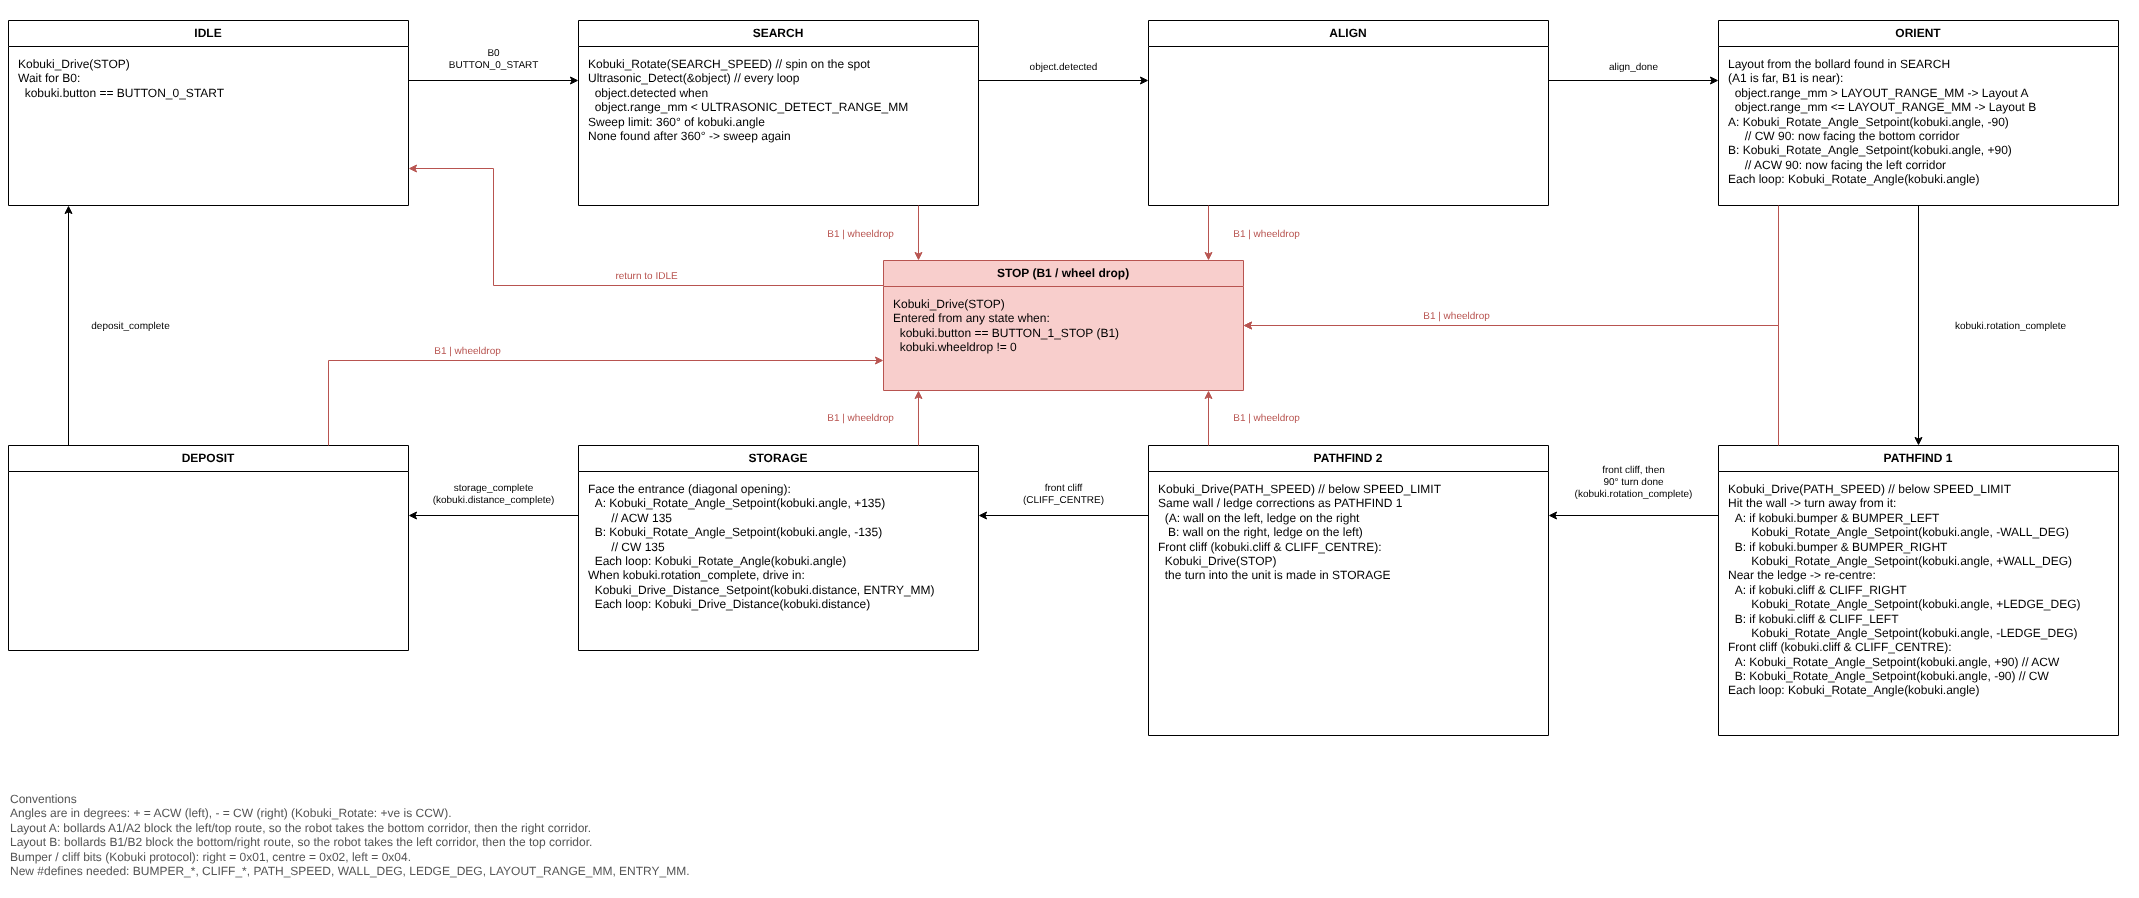
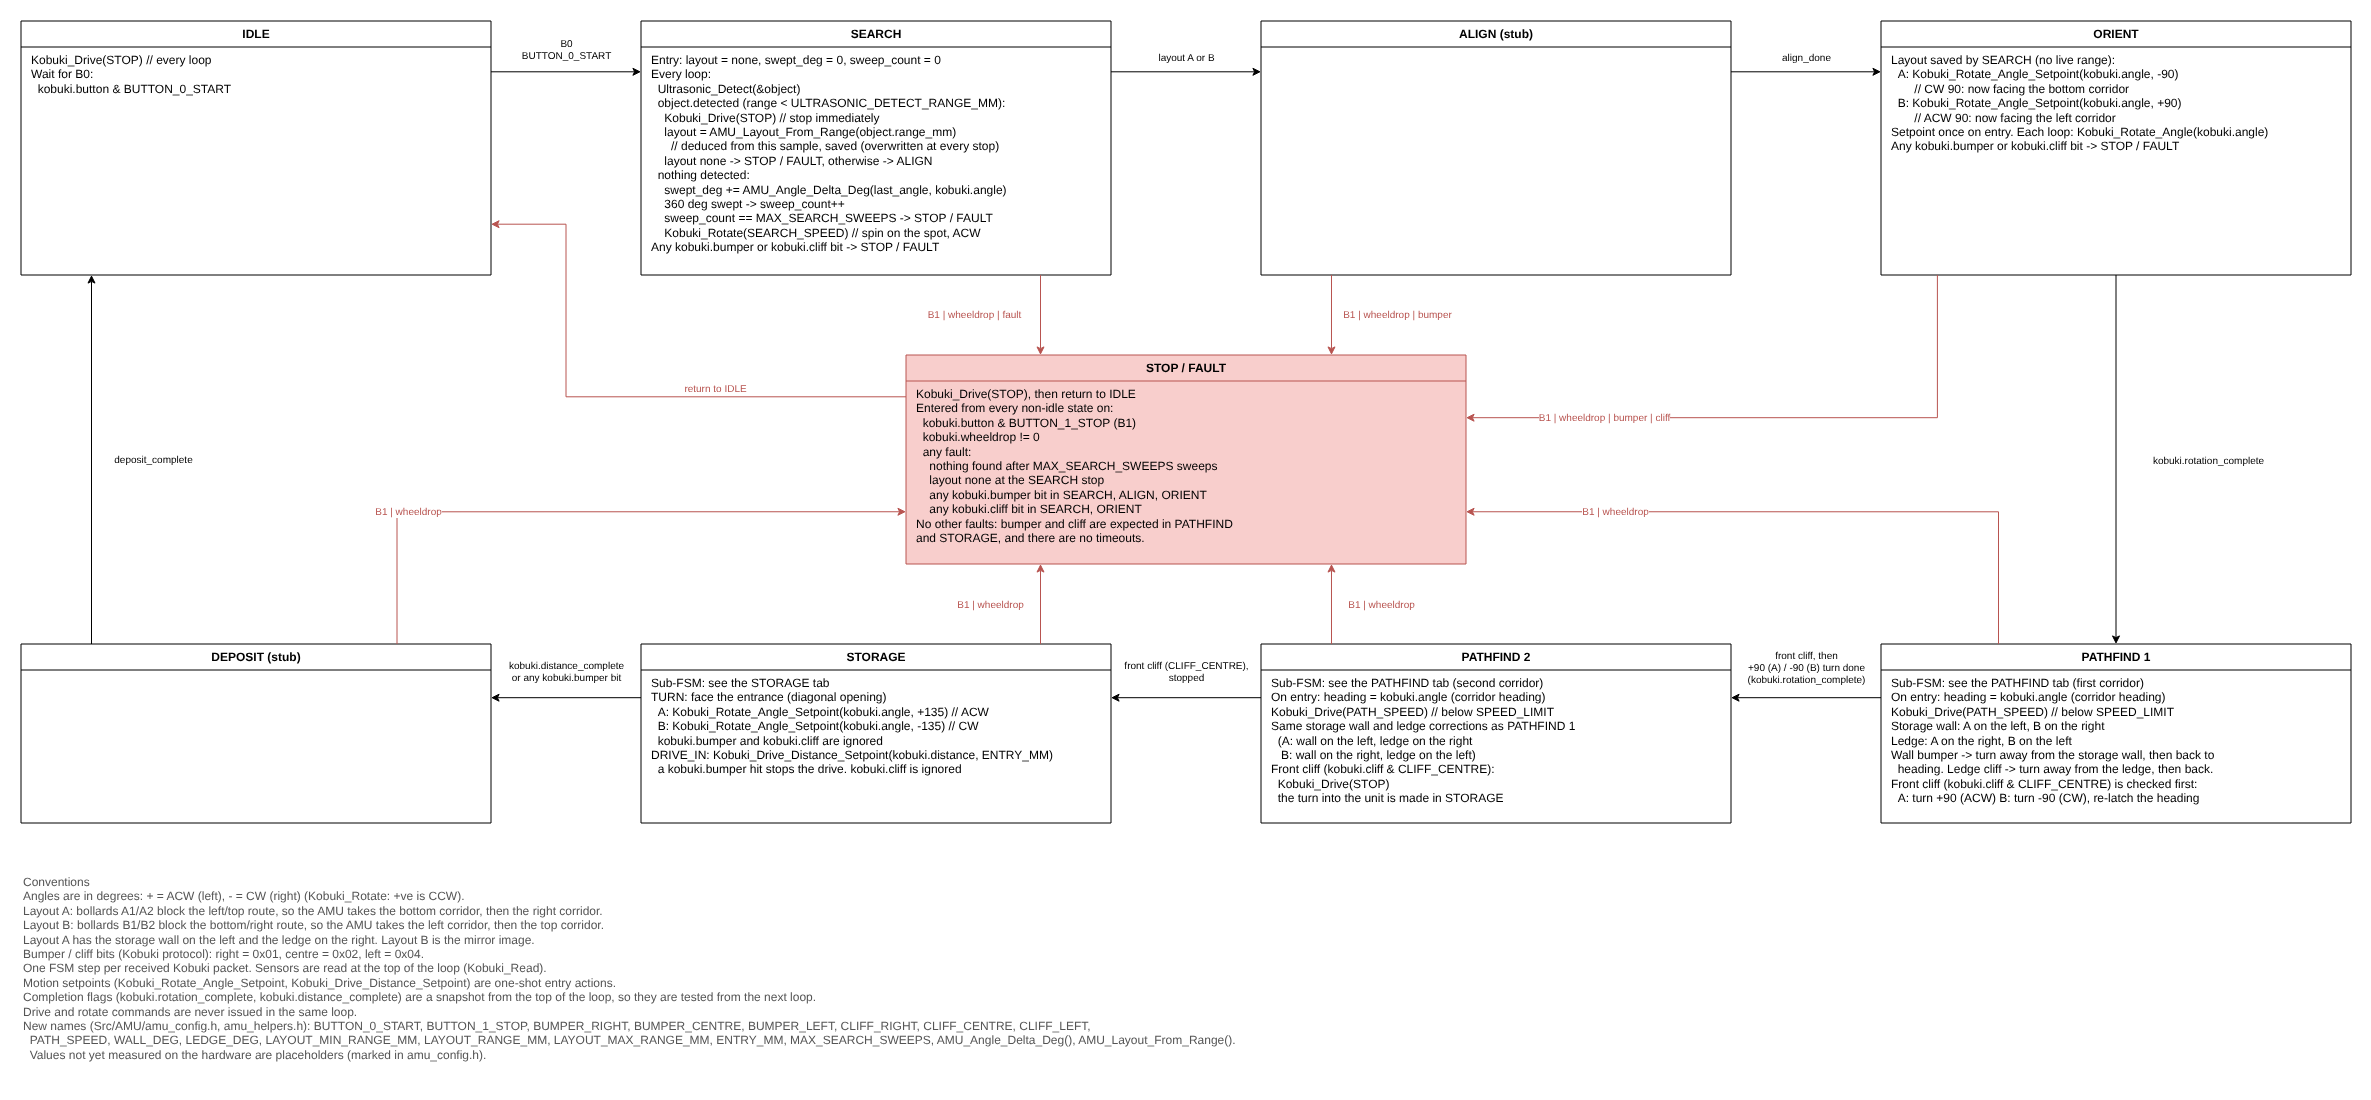
AMU FSM through ORIENT: corrected diagram, constants and helpers (#62)
Diagram: main tab plus PATHFIND and STORAGE sub-FSM tabs, preview images
regenerated. STOP is now STOP / FAULT (entered on B1, wheel drop or any
fault, returns to IDLE), SEARCH stops at detection and gives up after two
sweeps, ORIENT reads the saved layout, the missing PATHFIND 1 edge label is
added, and the one-shot setpoint rule and new-names list are stated.

Firmware (new Src/AMU module, main.c runs one step per Kobuki packet):
- amu_config.h: button, bumper and cliff codes, path speed, correction
  angles, layout ranges, entry distance, max sweeps. Unmeasured values are
  marked PLACEHOLDER, with compile-time sanity checks.
- AMU_Angle_Delta_Deg: shortest signed rotation in whole degrees across the
  gyro wrap, quantised like the Kobuki angle setpoint so successive deltas
  add up without drift.
- AMU_Layout_From_Range: near band is B, far band is A, otherwise none.
- IDLE, SEARCH, ALIGN (pass-through), ORIENT, PATHFIND (stub) and
  STOP / FAULT. The Kobuki driver and the robot wrapper are untouched.
- cppcheck CI now covers Src/AMU.

Claude-Session: https://claude.ai/code/session_012dCV7nyVnLHF5acMmx45H5

diff --git a/Src/AMU/amu_fsm.c b/Src/AMU/amu_fsm.c
@@ -1,0 +1,183 @@
+#include <stdint.h>
+#include <stdbool.h>
+#include "kobuki.h"
+#include "ultrasonic.h"
+#include "amu_config.h"
+#include "amu_helpers.h"
+#include "amu_fsm.h"
+
+#define ORIENT_DEG ((int16_t)90)  // facing the blocking bollard -> facing the first corridor
+
+static void Enter(AMU_Typedef *amu, AMU_State_Enum state)
+{
+    amu->state = state;
+    amu->entry = true;
+}
+
+static bool Contact(const Kobuki_Typedef *kobuki)
+{
+    return (kobuki->bumper != 0U) || (kobuki->cliff != 0U);
+}
+
+// One loop of a one-shot rotation. The setpoint is issued on the entry loop only. The completion flag in the
+// sensor snapshot still holds the previous move's value on that loop, so completion is tested from the next one.
+// Returns true on the loop that sees the rotation complete, after stopping the motors.
+static bool Rotate_Step(AMU_Typedef *amu, const Kobuki_Typedef *kobuki, int16_t angle_deg)
+{
+    if (amu->entry) {
+        amu->entry = false;
+        Kobuki_Rotate_Angle_Setpoint(kobuki->angle, angle_deg);
+    } else if (kobuki->rotation_complete) {
+        Kobuki_Drive(STOP);
+        return true;
+    }
+    Kobuki_Rotate_Angle(kobuki->angle);
+    return false;
+}
+
+static void Idle(AMU_Typedef *amu, const Kobuki_Typedef *kobuki)
+{
+    Kobuki_Drive(STOP);
+    if ((kobuki->button & BUTTON_0_START) != 0U) {
+        Enter(amu, AMU_SEARCH);
+    }
+}
+
+static void Search(AMU_Typedef *amu, const Kobuki_Typedef *kobuki)
+{
+    US_Typedef object;
+
+    if (amu->entry) {
+        amu->entry = false;
+        amu->layout = AMU_LAYOUT_NONE;
+        amu->last_angle = kobuki->angle;
+        amu->swept_deg = 0;
+        amu->sweep_count = 0;
+    }
+
+    if (Contact(kobuki)) {
+        Enter(amu, AMU_STOP_FAULT);
+        return;
+    }
+
+    Ultrasonic_Detect(&object);
+    if (object.detected) {
+        // Stop first, then deduce the layout from this sample's range (the live range changes every loop).
+        // The layout is re-deduced at every stop, so a SEARCH resumed after a rejected object overwrites it.
+        Kobuki_Drive(STOP);
+        amu->layout = AMU_Layout_From_Range(object.range_mm);
+        Enter(amu, (amu->layout == AMU_LAYOUT_NONE) ? AMU_STOP_FAULT : AMU_ALIGN);
+        return;
+    }
+
+    amu->swept_deg += AMU_Angle_Delta_Deg(amu->last_angle, kobuki->angle);
+    amu->last_angle = kobuki->angle;
+    if (amu->swept_deg >= 360) {
+        amu->swept_deg -= 360;
+        amu->sweep_count++;
+    }
+    if (amu->sweep_count >= MAX_SEARCH_SWEEPS) {
+        Enter(amu, AMU_STOP_FAULT);
+        return;
+    }
+
+    Kobuki_Rotate(SEARCH_SPEED);
+}
+
+// Stub until the ALIGN ticket: done at once, so the AMU still faces the blocking bollard it found.
+static void Align(AMU_Typedef *amu, const Kobuki_Typedef *kobuki)
+{
+    if (kobuki->bumper != 0U) {
+        Enter(amu, AMU_STOP_FAULT);
+        return;
+    }
+    Enter(amu, AMU_ORIENT);
+}
+
+static void Orient(AMU_Typedef *amu, const Kobuki_Typedef *kobuki)
+{
+    int16_t angle_deg;
+
+    if (Contact(kobuki)) {
+        Enter(amu, AMU_STOP_FAULT);
+        return;
+    }
+
+    // Saved layout only: the live range is not read again.
+    switch (amu->layout) {
+        case AMU_LAYOUT_A:
+            angle_deg = -ORIENT_DEG;
+            break;
+        case AMU_LAYOUT_B:
+            angle_deg = ORIENT_DEG;
+            break;
+        default:  // unreachable: SEARCH only leaves for ALIGN with a layout
+            Enter(amu, AMU_STOP_FAULT);
+            return;
+    }
+
+    if (Rotate_Step(amu, kobuki, angle_deg)) {
+        Enter(amu, AMU_PATHFIND);
+    }
+}
+
+// Stub until the PATHFIND ticket.
+static void Pathfind(AMU_Typedef *amu)
+{
+    Kobuki_Drive(STOP);
+    Enter(amu, AMU_IDLE);
+}
+
+static void Stop_Fault(AMU_Typedef *amu)
+{
+    Kobuki_Drive(STOP);
+    Enter(amu, AMU_IDLE);
+}
+
+static void Run_State(AMU_Typedef *amu, const Kobuki_Typedef *kobuki)
+{
+    switch (amu->state) {
+        case AMU_IDLE:
+            Idle(amu, kobuki);
+            break;
+        case AMU_SEARCH:
+            Search(amu, kobuki);
+            break;
+        case AMU_ALIGN:
+            Align(amu, kobuki);
+            break;
+        case AMU_ORIENT:
+            Orient(amu, kobuki);
+            break;
+        case AMU_PATHFIND:
+            Pathfind(amu);
+            break;
+        case AMU_STOP_FAULT:
+            Stop_Fault(amu);
+            break;
+    }
+}
+
+void AMU_Init(AMU_Typedef *amu)
+{
+    amu->layout = AMU_LAYOUT_NONE;
+    amu->last_angle = 0;
+    amu->swept_deg = 0;
+    amu->sweep_count = 0;
+    Enter(amu, AMU_IDLE);
+}
+
+void AMU_Step(AMU_Typedef *amu, const Kobuki_Typedef *kobuki)
+{
+    // B1 or a wheel drop stops the run from any state but IDLE.
+    if (amu->state != AMU_IDLE && ((kobuki->button & BUTTON_1_STOP) != 0U || kobuki->wheeldrop != 0U)) {
+        Enter(amu, AMU_STOP_FAULT);
+    }
+
+    Run_State(amu, kobuki);
+
+    // A fault raised in this loop stops the motors in the same loop.
+    if (amu->state == AMU_STOP_FAULT) {
+        Run_State(amu, kobuki);
+    }
+}

diff --git a/Src/AMU/amu_config.h b/Src/AMU/amu_config.h
@@ -1,0 +1,43 @@
+#ifndef AMU_CONFIG_H
+#define AMU_CONFIG_H
+
+#include <stdint.h>
+#include "kobuki.h"
+#include "ultrasonic.h"
+
+// Names used by the AMU FSM diagram (docs/amu_fsm.drawio).
+// Values marked PLACEHOLDER are unverified: tune them on the hardware.
+
+// Kobuki protocol codes. Confirm on the hardware.
+#define BUTTON_0_START ((uint8_t)0x01U)
+#define BUTTON_1_STOP  ((uint8_t)0x02U)
+#define BUMPER_RIGHT   ((uint8_t)0x01U)
+#define BUMPER_CENTRE  ((uint8_t)0x02U)
+#define BUMPER_LEFT    ((uint8_t)0x04U)
+#define CLIFF_RIGHT    ((uint8_t)0x01U)
+#define CLIFF_CENTRE   ((uint8_t)0x02U)
+#define CLIFF_LEFT     ((uint8_t)0x04U)
+
+// Corridor driving: speed below SPEED_LIMIT, corrections in degrees.
+#define PATH_SPEED ((int16_t)100)  // mm / s. PLACEHOLDER, try 80, 100, 120
+#define WALL_DEG   ((int16_t)10)   // turn away from the storage wall. PLACEHOLDER, try 5 to 20
+#define LEDGE_DEG  ((int16_t)10)   // turn away from the ledge. PLACEHOLDER, try 5 to 20
+
+// Layout deduced from the range to the blocking bollard seen from the start circle.
+// Near band [MIN, SPLIT] is Layout B, far band (SPLIT, MAX] is Layout A.
+#define LAYOUT_MIN_RANGE_MM ((uint16_t)300U)  // mm. PLACEHOLDER
+#define LAYOUT_RANGE_MM     ((uint16_t)450U)  // mm, split. PLACEHOLDER, about 475 minus the sensor offset
+#define LAYOUT_MAX_RANGE_MM ((uint16_t)650U)  // mm. PLACEHOLDER
+
+// Drive from the stop point into the storage unit.
+#define ENTRY_MM ((int16_t)740)  // mm. PLACEHOLDER, geometric estimate
+
+// SEARCH gives up after this many full 360 degree sweeps with nothing detected.
+#define MAX_SEARCH_SWEEPS ((uint8_t)2U)
+
+_Static_assert(PATH_SPEED > 0 && PATH_SPEED < SPEED_LIMIT, "PATH_SPEED must be below SPEED_LIMIT");
+_Static_assert(LAYOUT_MIN_RANGE_MM < LAYOUT_RANGE_MM && LAYOUT_RANGE_MM < LAYOUT_MAX_RANGE_MM,
+               "layout ranges must satisfy MIN < SPLIT < MAX");
+_Static_assert(LAYOUT_MAX_RANGE_MM <= ULTRASONIC_DETECT_RANGE_MM, "layout bands must lie inside the detect range");
+
+#endif

diff --git a/Src/main.c b/Src/main.c
@@ -5,32 +5,25 @@
 
 #include "stm32g4xx.h"
 #include "uart.h"
+#include "adc.h"
+#include "ultrasonic.h"
 #include "kobuki.h"
-#include "robot_control.h"
+#include "amu_fsm.h"
 
 int main(void)
 {
-    Kobuki_Typedef kobuki;
-    Kobuki_LED_Enum led_1 = GREEN;
+    Kobuki_Typedef kobuki = {0};
+    AMU_Typedef amu;
 
     UART_Init();
-    Robot_Init();
-    Kobuki_Update_LEDs(led_1, OFF);
+    ADC_Init();
+    Ultrasonic_Init();
+    Kobuki_Update_LEDs(GREEN, OFF);
+    AMU_Init(&amu);
 
-    // Move forward 1 metre
-    Robot_Move(1000, 200);
-
-    while (1)
-    {
-        // Update movement and bumper sensors
-        Robot_Update(&kobuki);
-
-        // Stop if a bumper is pressed
-        if (Robot_BumperPressed())
-        {
-            Robot_Stop();
-            led_1 = RED;
-            Kobuki_Update_LEDs(led_1, OFF);
-        }
+    while (1) {
+        // One FSM step per received Kobuki packet, sensors read at the top of the loop
+        Kobuki_Read(&kobuki);
+        AMU_Step(&amu, &kobuki);
     }
 }

diff --git a/Src/AMU/amu_helpers.c b/Src/AMU/amu_helpers.c
@@ -1,0 +1,38 @@
+#include <stdint.h>
+#include "amu_config.h"
+#include "amu_helpers.h"
+
+#define ANGLE_TICK_OFFSET 18000  // [-18000, 18000] -> [0, 36000], as in Kobuki_Rotate_Angle_Setpoint
+#define TICKS_PER_DEG     100
+
+static int32_t Angle_Deg(int16_t angle_tick)
+{
+    return ((int32_t)angle_tick + ANGLE_TICK_OFFSET) / TICKS_PER_DEG;
+}
+
+int16_t AMU_Angle_Delta_Deg(int16_t from_angle_tick, int16_t to_angle_tick)
+{
+    int32_t delta = (Angle_Deg(to_angle_tick) - Angle_Deg(from_angle_tick)) % 360;
+
+    // Fold into (-180, 180]
+    if (delta > 180) {
+        delta -= 360;
+    } else if (delta <= -180) {
+        delta += 360;
+    }
+    return (int16_t)delta;
+}
+
+AMU_Layout_Enum AMU_Layout_From_Range(uint16_t range_mm)
+{
+    if (range_mm < LAYOUT_MIN_RANGE_MM) {
+        return AMU_LAYOUT_NONE;
+    }
+    if (range_mm <= LAYOUT_RANGE_MM) {
+        return AMU_LAYOUT_B;
+    }
+    if (range_mm <= LAYOUT_MAX_RANGE_MM) {
+        return AMU_LAYOUT_A;
+    }
+    return AMU_LAYOUT_NONE;
+}

diff --git a/Src/AMU/amu_fsm.h b/Src/AMU/amu_fsm.h
@@ -1,0 +1,25 @@
+#ifndef AMU_FSM_H
+#define AMU_FSM_H
+
+#include <stdint.h>
+#include <stdbool.h>
+#include "kobuki.h"
+#include "amu_helpers.h"
+
+typedef enum { AMU_IDLE, AMU_SEARCH, AMU_ALIGN, AMU_ORIENT, AMU_PATHFIND, AMU_STOP_FAULT } AMU_State_Enum;
+
+typedef struct {
+    AMU_State_Enum state;
+    bool entry;              // first loop in the current state: entry actions run, completion is not tested
+    AMU_Layout_Enum layout;  // saved by SEARCH at each stop, read by the later states
+    int16_t last_angle;      // gyro at the previous SEARCH loop
+    int16_t swept_deg;       // angle swept in the current sweep, across the gyro wrap
+    uint8_t sweep_count;     // full sweeps done with nothing detected
+} AMU_Typedef;
+
+void AMU_Init(AMU_Typedef *amu);
+
+// One FSM step. Call once per received Kobuki packet, right after Kobuki_Read.
+void AMU_Step(AMU_Typedef *amu, const Kobuki_Typedef *kobuki);
+
+#endif

diff --git a/Src/AMU/amu_helpers.h b/Src/AMU/amu_helpers.h
@@ -1,0 +1,17 @@
+#ifndef AMU_HELPERS_H
+#define AMU_HELPERS_H
+
+#include <stdint.h>
+
+typedef enum { AMU_LAYOUT_NONE, AMU_LAYOUT_A, AMU_LAYOUT_B } AMU_Layout_Enum;
+
+// Shortest signed rotation in whole degrees (+ve is ACW) from one gyro reading to another.
+// Readings are in hundredths of a degree and wrap at +/-180 degrees. Each reading is first reduced to
+// whole degrees the same way the Kobuki angle setpoint does, so the differences of successive readings
+// add up exactly (no drift) and a rotation to the result ends on the whole degree of the target reading.
+int16_t AMU_Angle_Delta_Deg(int16_t from_angle_tick, int16_t to_angle_tick);
+
+// Classify a range to the blocking bollard: near band is Layout B, far band is Layout A, otherwise none.
+AMU_Layout_Enum AMU_Layout_From_Range(uint16_t range_mm);
+
+#endif
